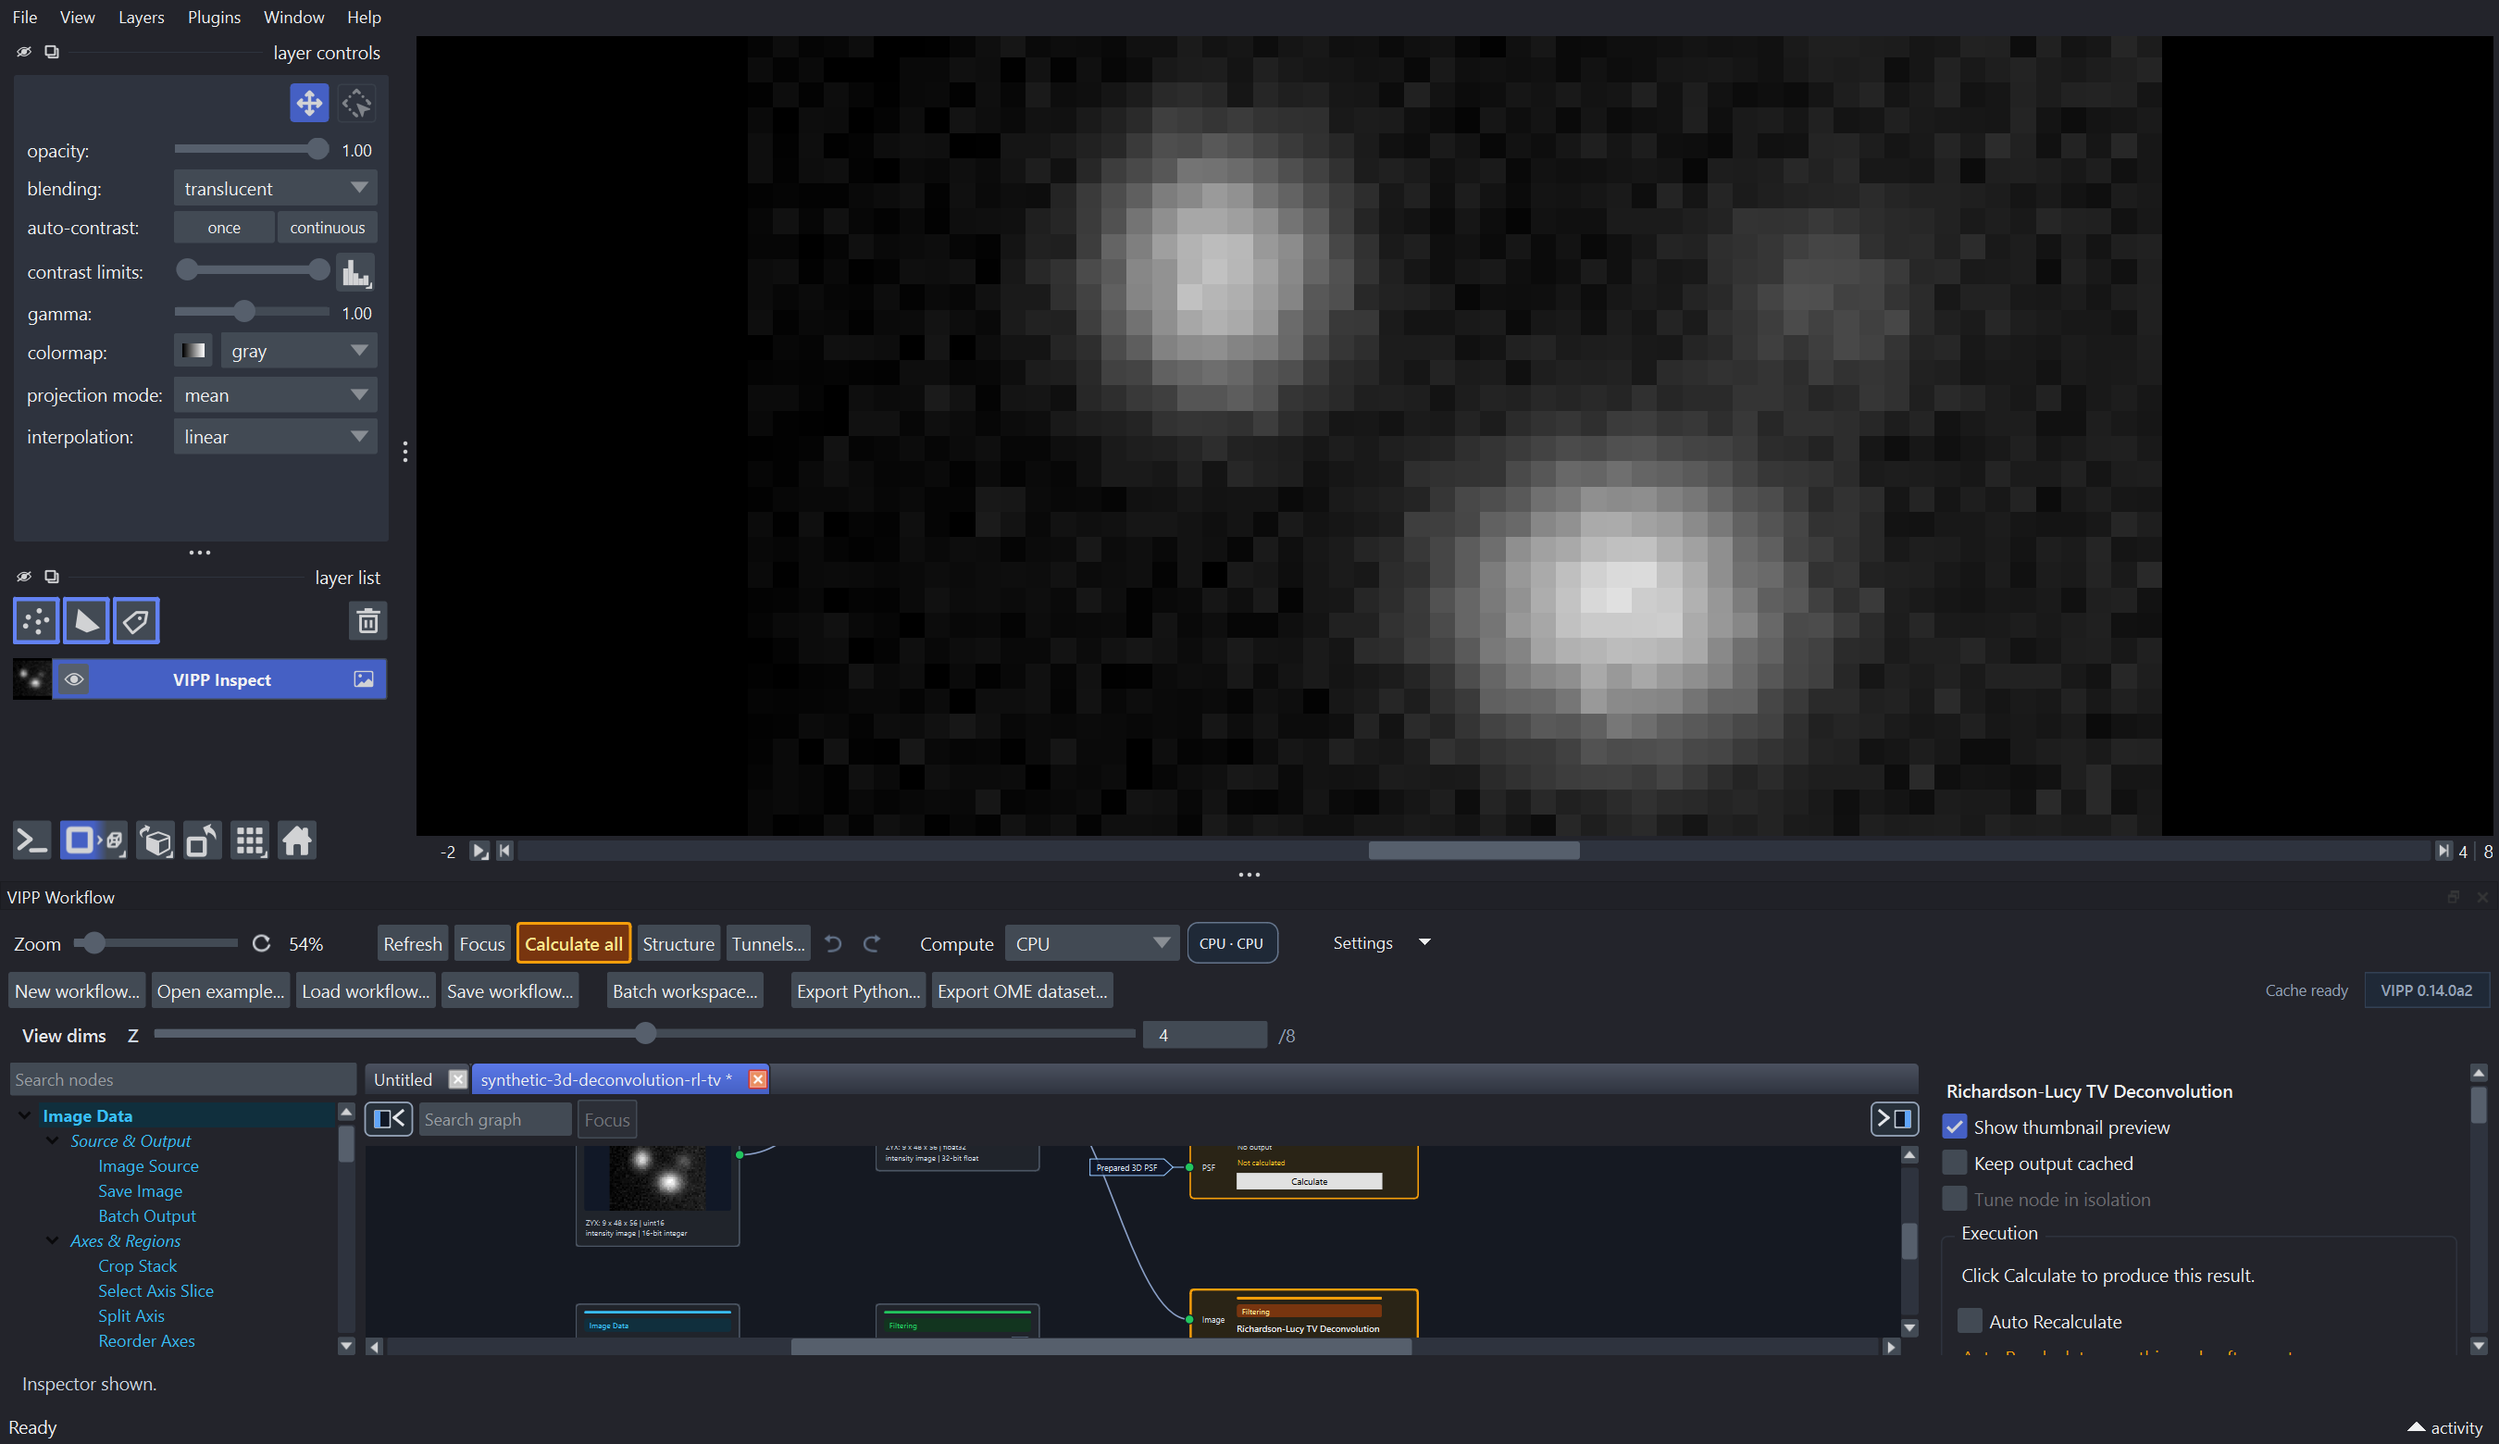
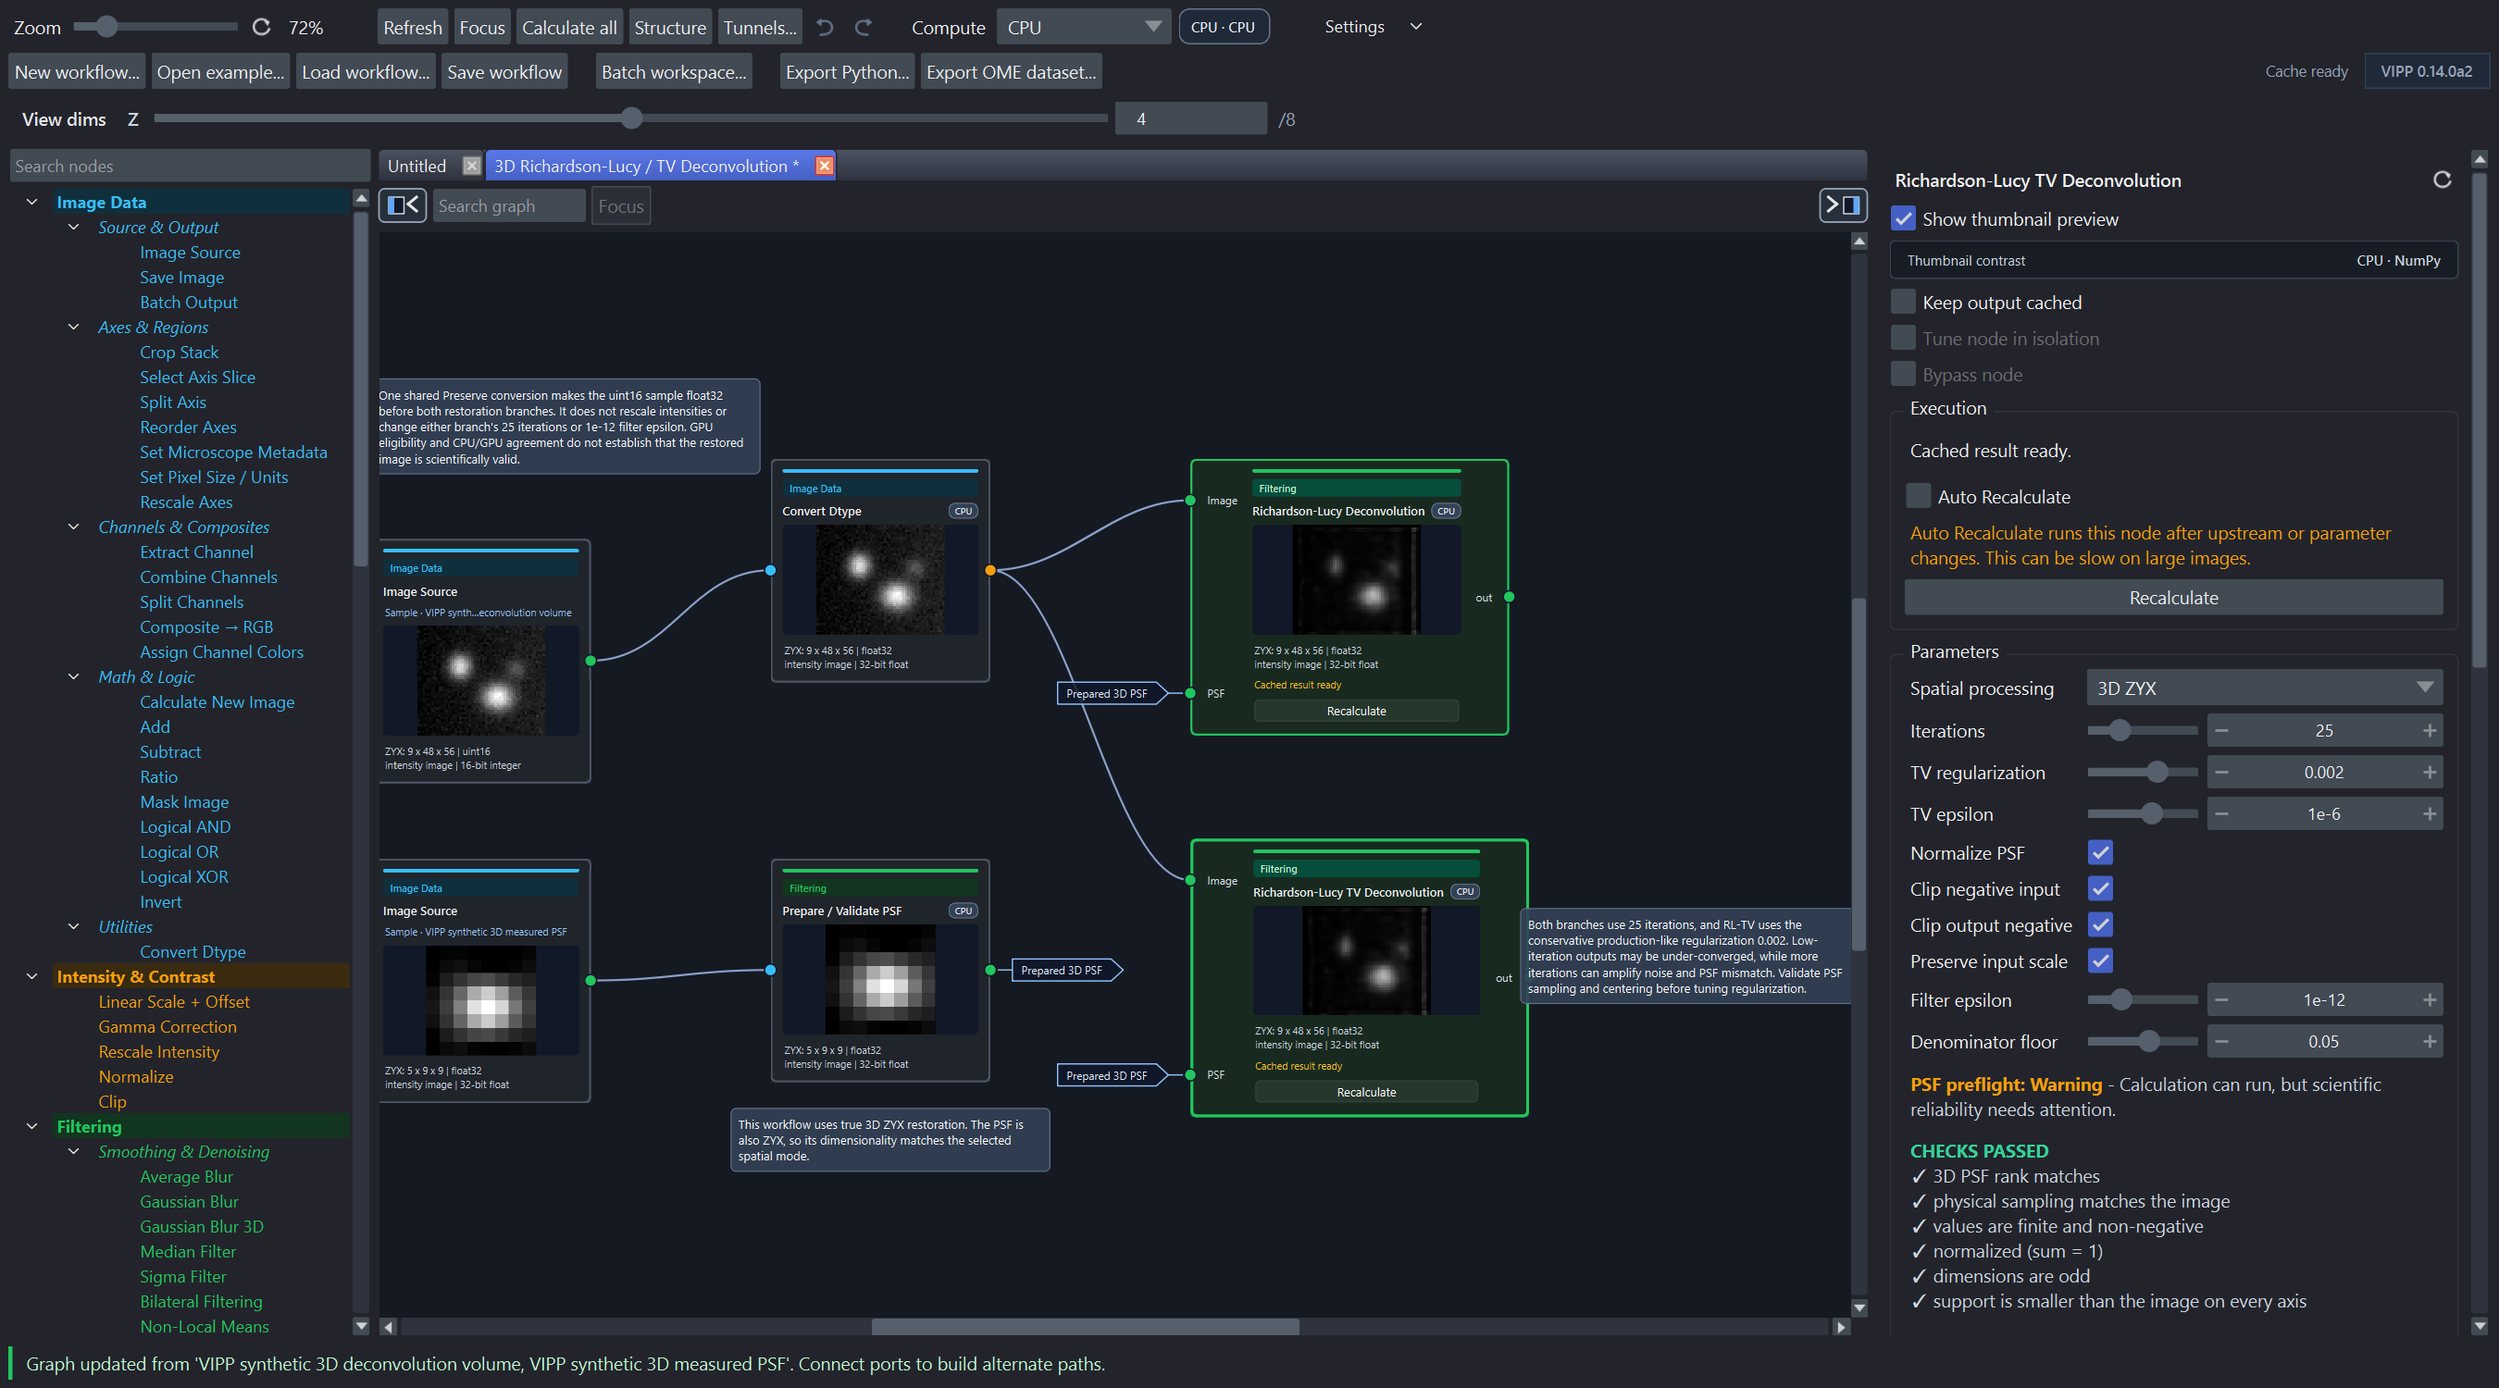
Replace README hero with calculated workflow capture

diff --git a/scripts/capture_vipp_docs.py b/scripts/capture_vipp_docs.py
@@ -73,6 +73,7 @@ class CaptureSpec:
         "psf-preflight",
     ] = "standard"
     asset_group: Literal["public", "app-user-guide"] = "public"
+    capture_width: int = 1700
     capture_height: int = 900
 
 
@@ -168,11 +169,13 @@ CAPTURES = (
         "vipp-3d-deconvolution-workspace.png",
         "deconvolution-3d",
         "richardson_lucy_tv_deconvolution_1",
-        54,
-        capture_mode="context",
+        72,
+        capture_mode="workflow",
         show_entire_graph=True,
-        calculate_manual=False,
+        calculate_manual=True,
         asset_group="app-user-guide",
+        capture_width=1800,
+        capture_height=1000,
     ),
     CaptureSpec(
         "vipp-3d-deconvolution-graph.png",
@@ -182,8 +185,10 @@ CAPTURES = (
         capture_mode="graph",
         show_entire_graph=True,
         show_library=False,
-        calculate_manual=False,
+        calculate_manual=True,
         asset_group="app-user-guide",
+        capture_width=2300,
+        capture_height=1080,
     ),
 )
 
@@ -281,7 +286,7 @@ def _capture(spec: CaptureSpec, output_dir: Path) -> Path:
     target = output_dir / spec.filename
     if spec.capture_mode == "workflow":
         dock.setFloating(True)
-        dock.resize(1700, spec.capture_height)
+        dock.resize(spec.capture_width, spec.capture_height)
         dock.show()
         widget.splitter.setSizes([260 if spec.show_library else 0, 1020, 420])
         if spec.show_entire_graph:
@@ -298,7 +303,7 @@ def _capture(spec: CaptureSpec, output_dir: Path) -> Path:
         dock.grab().save(str(target))
     elif spec.capture_mode == "graph":
         dock.setFloating(True)
-        dock.resize(1700, spec.capture_height)
+        dock.resize(spec.capture_width, spec.capture_height)
         dock.show()
         widget.splitter.setSizes([0, 1280, 0])
         if spec.show_entire_graph:

diff --git a/README.md b/README.md
@@ -31,10 +31,10 @@ understand how results were produced.
 > analysis on representative data before scientific interpretation or
 > publication.
 
-![VIPP workspace with a 3D deconvolution workflow](https://raw.githubusercontent.com/rensutheart/napari-vipp/main/docs/assets/user-guide/vipp-3d-deconvolution-workspace.png)
+![VIPP workspace with a calculated 3D deconvolution workflow](https://raw.githubusercontent.com/rensutheart/napari-vipp/main/docs/assets/user-guide/vipp-3d-deconvolution-workspace.png)
 
-*A 3D deconvolution workflow in napari, with node previews, image inspection and
-manual control over computationally intensive stages.*
+*A calculated 3D deconvolution workflow with the node catalogue, thumbnail
+previews and selected-node inspector visible together.*
 
 ## Why VIPP
 

diff --git a/docs/user-guide.md b/docs/user-guide.md
@@ -62,7 +62,7 @@ The VIPP dock has four working areas:
 | Graph canvas | Typed node graph where outputs connect to compatible inputs. |
 | Inspector | Parameters, execution controls, metadata, histograms, and table previews for the selected node. |
 
-![VIPP workspace with a 3D deconvolution workflow](assets/user-guide/vipp-3d-deconvolution-workspace.png)
+![VIPP workspace with a calculated 3D deconvolution workflow](assets/user-guide/vipp-3d-deconvolution-workspace.png)
 
 Graph direction is usually left to right: sources on the left, processing in
 the middle, analysis or saved outputs on the right. Node cards show a compact
